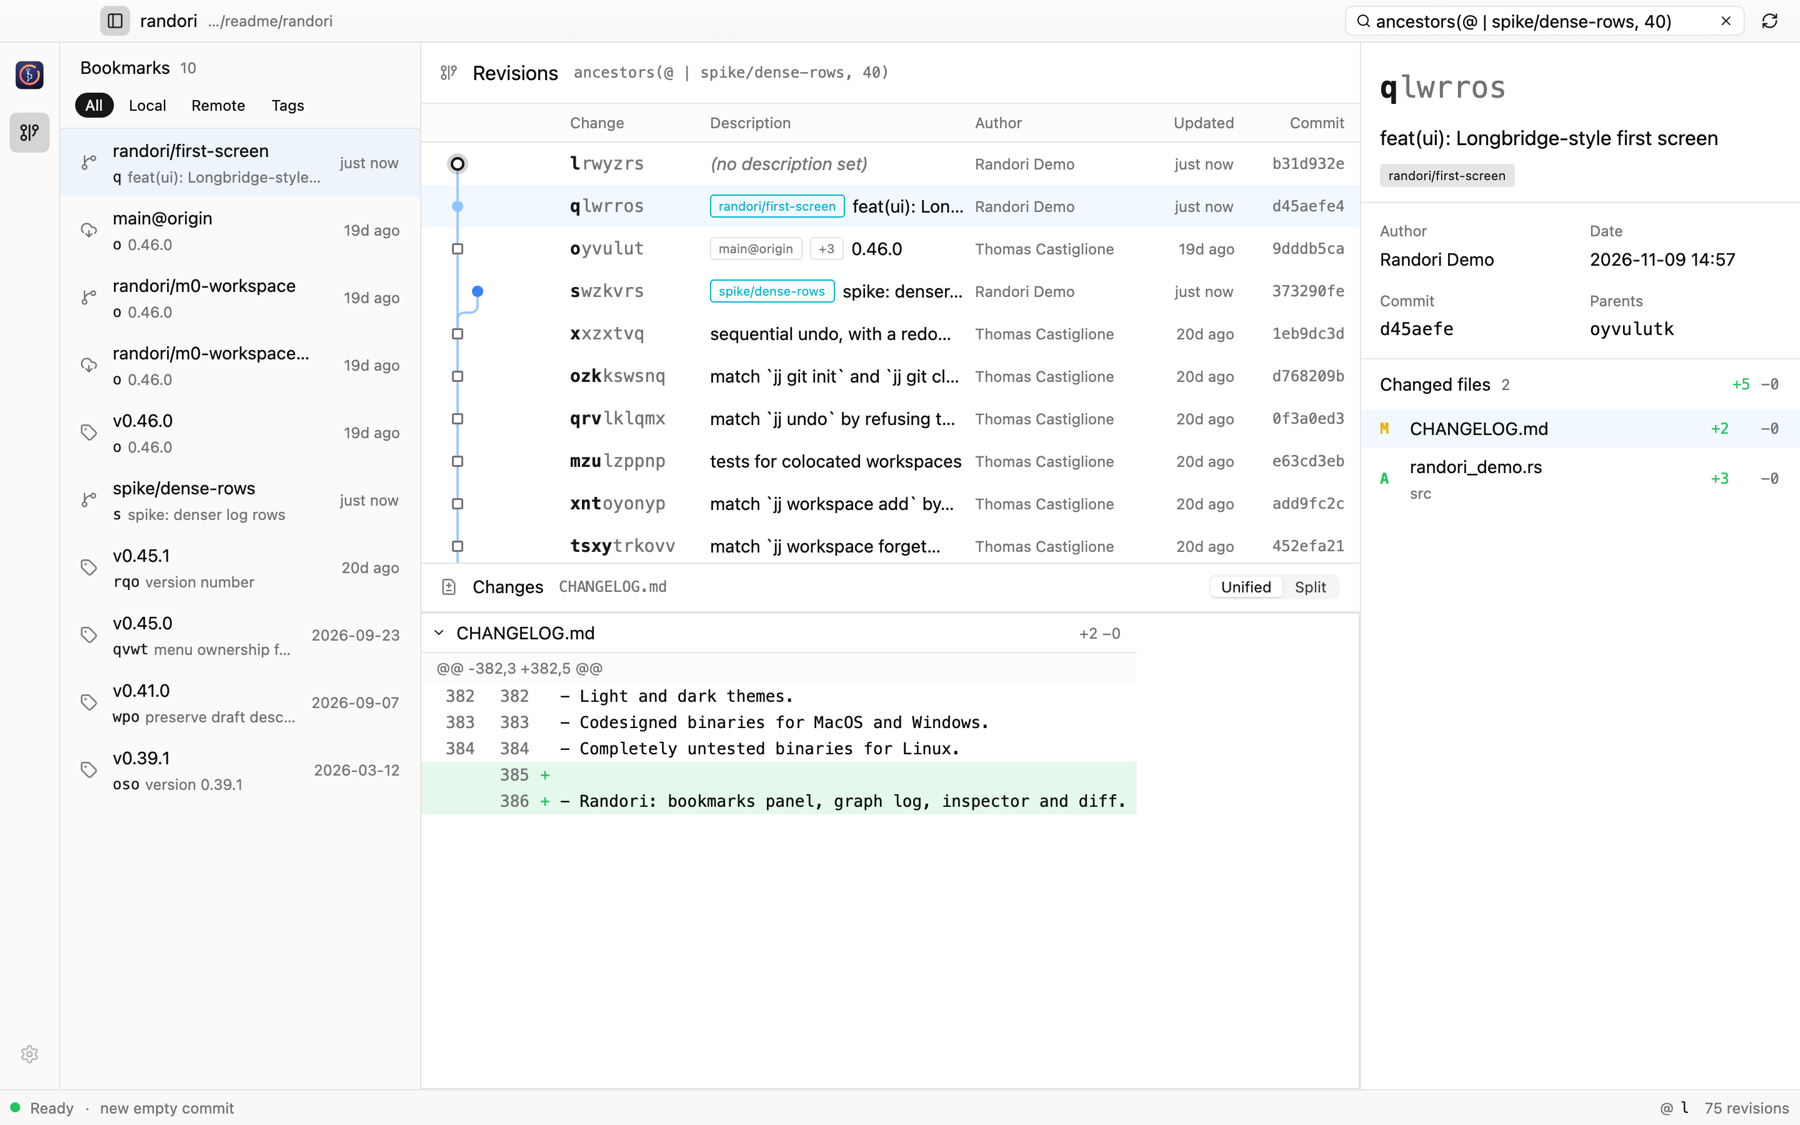
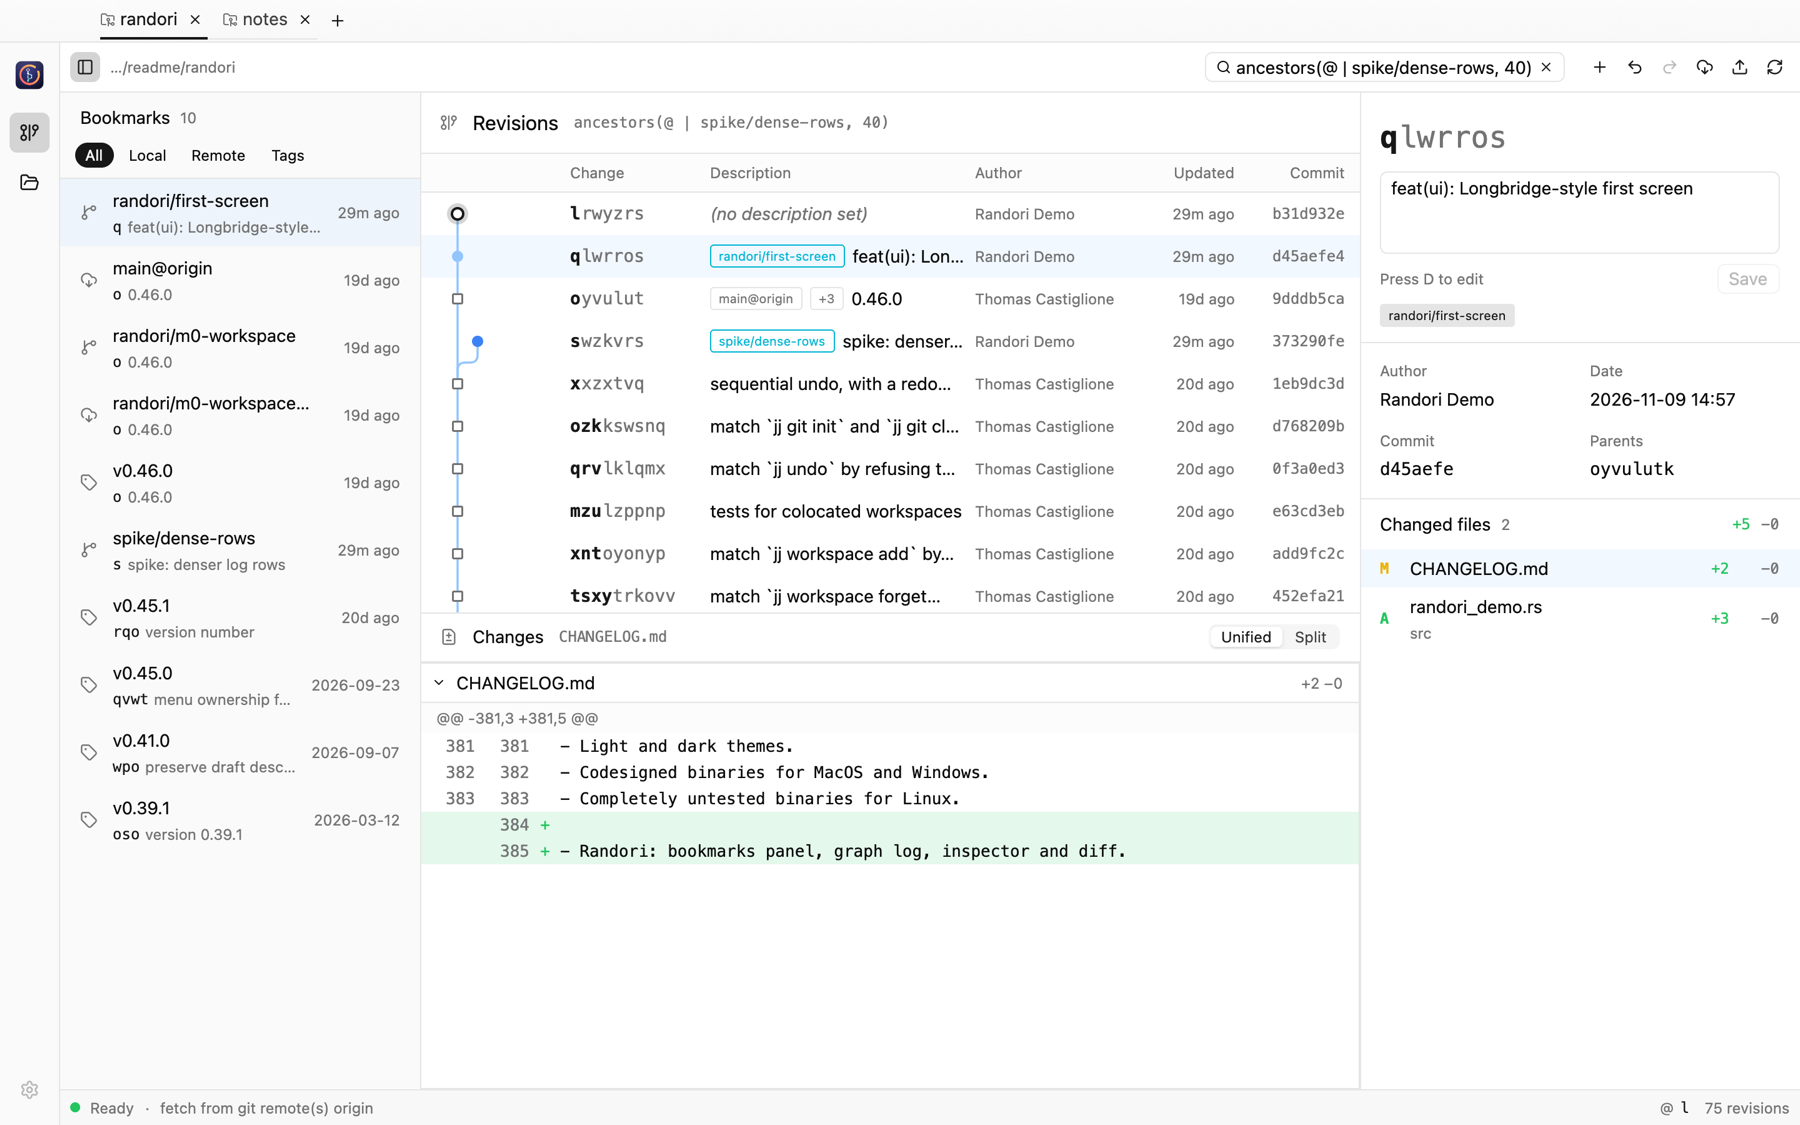
docs: README 에 탭과 편집 명령을 반영한다
What:
- 창 구성 표에 탭 · 도구 막대 · 우클릭 메뉴 · 드래그 앤 드롭을 넣었다
- 편집 명령 표와 단축키 표(창 · 작업 공간 · 리비전 목록)를 갱신했다
- 스크린샷을 탭이 보이는 화면으로 다시 찍고 북마크 대화상자 화면을 더했다
- 상태 문구를 지금 되는 것과 아직 없는 것(hunk 이동 · 충돌 해결 · 설정)으로 고쳤다

Why:
- 저장소 첫 화면의 설명이 실제 기능과 맞아야 한다. 이전 스크린샷의 diff 줄
  번호도 1씩 밀려 있었다
- 시연 저장소는 이번에도 JJ_USER="Randori Demo" 로 만들었다

AI-Use: yes
AI-Model: claude opus 5.5
AI-Contribution: 100%

diff --git a/README.md b/README.md
@@ -16,25 +16,51 @@ so the whole application is Rust, rendered on the GPU, with no webview.
 The name comes from jujutsu practice: *randori* is free-form sparring, where
 you move, split and recombine freely. That is how jj treats history.
 
-> **Status:** early development. The first screen reads a workspace — the
-> graph log, bookmarks, revision details and diffs. Editing (describe, new,
-> abandon, rebase by drag and drop, push and fetch) is the next milestone.
+> **Status:** early development. Randori reads and edits jj workspaces —
+> tabs, graph log, diffs, describe, new, edit, abandon, bookmarks, rebase by
+> drag and drop, push, fetch, undo and redo. Hunk-level moves, conflict
+> resolution and settings are not built yet.
 
-## The first screen
+## The window
 
 | Region | What it shows |
 | --- | --- |
-| Title bar | Workspace name and path, a **revset** field (press Enter to query), reload |
-| Rail | App navigation (only the revisions view exists so far; settings are not built yet) |
-| Bookmarks | Local and remote bookmarks and tags in the loaded revisions, filtered by kind. Click one to jump to its revision |
-| Revisions | The commit graph with fixed columns: change id, bookmarks and description, author, relative time, commit id. The hollow ring is the working copy (`@`); squares are immutable revisions |
+| Tabs | One tab per jj workspace, like Fork or GitKraken. `+` (or `⌘O`) opens more; the open tabs come back on the next launch |
+| Toolbar | Workspace path, a **revset** field (Enter to query), and New, Undo, Redo, Fetch, Push, Reload |
+| Rail | App navigation and Open; settings are not built yet |
+| Bookmarks | Local and remote bookmarks and tags in the loaded revisions, filtered by kind. Click to jump to the revision, right-click to push, rename, track or delete, drag onto a revision to move it there |
+| Revisions | The commit graph with fixed columns: change id, bookmarks and description, author, relative time, commit id. The hollow ring is the working copy (`@`); squares are immutable revisions. Right-click for revision commands; drag a revision onto another to rebase it there |
 | Changes | Diff of the selected file, unified or split, with line numbers and word-level highlights |
-| Inspector | The selected revision: change id, description, author, date, commit, parents and the changed files with line counts |
-| Status bar | Worker state, the last jj operation, the working copy and the number of loaded revisions |
+| Inspector | The selected revision: change id, an editable description (immutable history stays read-only), author, date, commit, parents and the changed files |
+| Status bar | Worker state, the running jj operation and its progress, the last operation, the working copy and the number of loaded revisions |
 
-Edits made outside Randori, in an editor or with the jj CLI, show up when the
-window comes back to the front: Randori asks jj to snapshot the working copy and
-reloads, keeping the rows you had loaded and your scroll position.
+Each tab runs its own jj worker thread (jj-lib is not thread-safe), so a slow
+fetch in one workspace never blocks another. Edits made outside Randori, in an
+editor or with the jj CLI, show up when the window comes back to the front:
+Randori asks jj to snapshot the working copy and reloads, keeping the rows you
+had loaded and your scroll position.
+
+### Editing
+
+Every command is one of GG's jj mutations, so the rules are jj's own:
+immutable revisions are refused with a warning, `Undo` steps back through the
+operation log, and git credentials are asked for when a remote needs them.
+
+| Command | How |
+| --- | --- |
+| New change on the selection | `N`, toolbar `+`, or the context menu |
+| Edit (make it the working copy) | `E` |
+| Describe | `D` to focus the inspector editor, `⌘↩` to save |
+| Create bookmark | `B`, then type a name and press Enter |
+| Abandon | `⌫` / `Delete`, confirmed in a dialog |
+| Duplicate, back out | Context menu |
+| Rebase | Drag a revision onto its new parent |
+| Move a bookmark | Drag it from the bookmarks panel onto a revision |
+| Push | `⌘⇧P` pushes the selection's bookmarks (an untracked bookmark goes to `origin`, or the only remote) |
+| Fetch | `⌘⇧F` fetches every remote |
+| Undo / redo | `⌘Z` / `⌘⇧Z` in the revision list |
+
+![Creating a bookmark](doc/randori/bookmark-dialog.png)
 
 ### Keyboard
 
@@ -43,10 +69,15 @@ reloads, keeping the rows you had loaded and your scroll position.
 | `↑` `↓` / `k` `j` | Revisions | Select the previous / next revision; the next page loads at the end |
 | `Home` / `End` | Revisions | First / last loaded revision |
 | `/` | Revisions | Edit the revset |
-| `⌘L` (`Ctrl+L`) | Anywhere | Edit the revset |
-| `Esc` | Anywhere | Back to the revision list |
-| `⌘R` (`Ctrl+R`) | Anywhere | Reload |
-| `⌘B` (`Ctrl+B`) | Anywhere | Show or hide the bookmarks panel |
+| `⌘L` (`Ctrl+L`) | Workspace | Edit the revset |
+| `Esc` | Workspace | Back to the revision list |
+| `⌘R` (`Ctrl+R`) | Workspace | Reload |
+| `⌘B` (`Ctrl+B`) | Workspace | Show or hide the bookmarks panel |
+| `⌘O` (`Ctrl+O`) | Window | Open a workspace in a new tab |
+| `⌘W` (`Ctrl+W`) | Window | Close the tab |
+| `Ctrl+Tab` / `Ctrl+Shift+Tab` | Window | Next / previous tab |
+
+On Linux and Windows, `⌘` is `Ctrl`.
 
 The layout follows the professional workstation style of
 [Longbridge Pro](https://longbridge.com/desktop), the application GPUI Kit was
@@ -78,7 +109,7 @@ the root `target/` directory.
 
 ```sh
 cd crates/randori
-cargo run -- /path/to/jj/workspace
+cargo run -- /path/to/workspace /path/to/another   # each opens in a tab
 ```
 
 | Option | Effect |
@@ -99,14 +130,17 @@ cargo run --features screenshot -- \
   --screenshot ../../doc/randori/first-screen.png /path/to/workspace
 ```
 
-The sample workspace is a clone of this repository with two extra changes, made
-under a placeholder identity (`JJ_USER="Randori Demo"`).
+The sample workspaces are a clone of this repository with two extra changes and
+a small notes repository, made under a placeholder identity
+(`JJ_USER="Randori Demo"`). Screenshot runs never touch your saved tabs.
 
 ## How it is built
 
 ```text
-crates/randori   gpui-kit views: title bar, rail, bookmarks, graph log, diff, inspector
-      │  SessionEvent requests over a channel, push events back through EventSink
+crates/randori   app_view: tabs, rail, open/close, saved session
+                 repo_view: toolbar, bookmarks, graph log, diff, inspector, status bar
+                 repo_view/ops: jj mutations (new, describe, abandon, push, rebase, …)
+      │  SessionEvent requests over a channel per tab, push events back through EventSink
       ▼
 src/worker       GG's jj engine (jj-lib), one worker thread per window
 src/messages     request and response types shared with the UI
